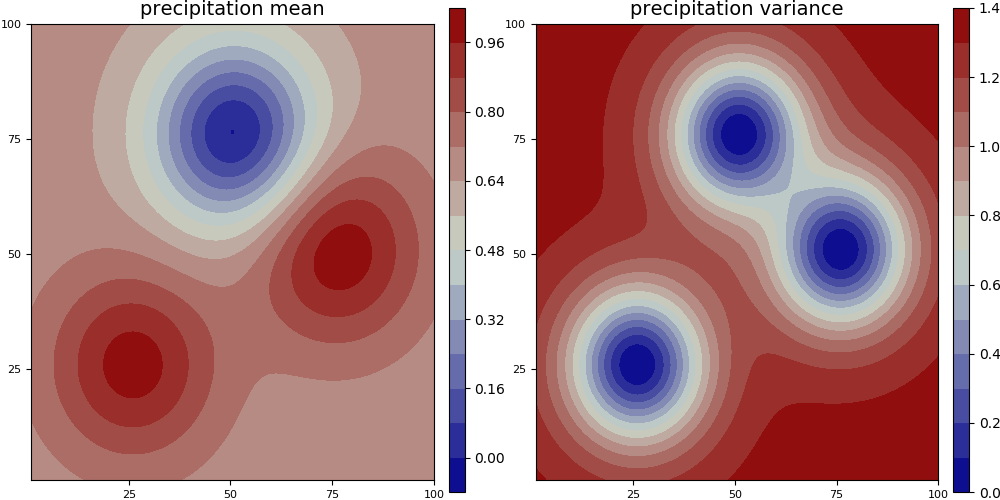
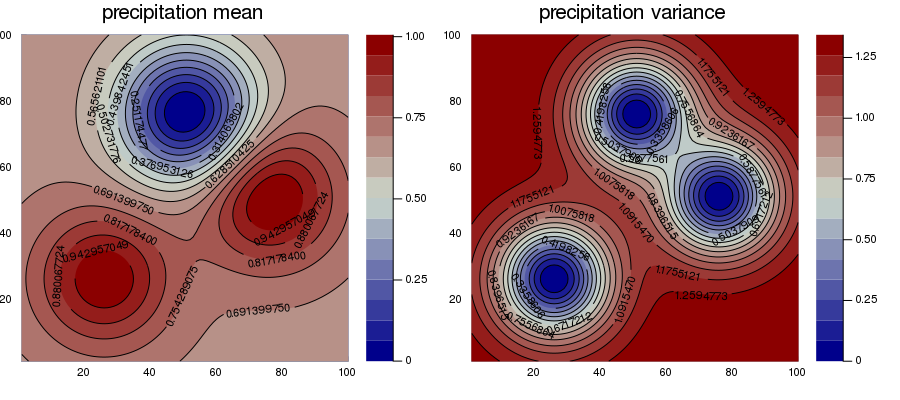
Update overview example in README and docs
Former-commit-id: 3d04e34be61e2967baa274650bc357f055fe8963

diff --git a/docs/src/index.md b/docs/src/index.md
@@ -62,24 +62,19 @@ can be installed from the list above for additional functionality.
 Below is a quick preview of the high-level API. For the full example, please see
 the [GeoStatsTutorials](https://github.com/juliohm/GeoStatsTutorials) repository.
 
-```julia
+```@example overview
 using GeoStats
 using Plots
+gr(size=(900,400)) # hide
 
-# data.csv:
-#    x,    y,       station, precipitation
-# 25.0, 25.0,     palo alto,           1.0
-# 50.0, 75.0,  redwood city,           0.0
-# 75.0, 50.0, mountain view,           1.0
+# define spatial data
+sdata = PointSetData(Dict(:precipitation => [1.,0.,1.]), [(25.,25.),(50.,75.),(75.,50.)])
 
-# read spreadsheet file containing spatial data
-geodata = readgeotable("data.csv", coordnames=[:x,:y])
-
-# define spatial domain (e.g. regular grid, point collection)
-grid = RegularGrid{Float64}(100, 100)
+# define spatial domain (e.g. regular grid, point set)
+sdomain = RegularGrid{Float64}(100, 100)
 
 # define estimation problem for any data column(s) (e.g. :precipitation)
-problem = EstimationProblem(geodata, grid, :precipitation)
+problem = EstimationProblem(sdata, sdomain, :precipitation)
 
 # choose a solver from the list of solvers
 solver = Kriging(
@@ -90,9 +85,10 @@ solver = Kriging(
 solution = solve(problem, solver)
 
 # plot the solution
-plot(solution)
+contourf(solution, contour_labels=true)
+png("images/EstimationSolution.png") # hide
 ```
-![EstimationSolution](images/EstimationSolution.png)
+![](images/EstimationSolution.png)
 
 ### Low-level API
 
